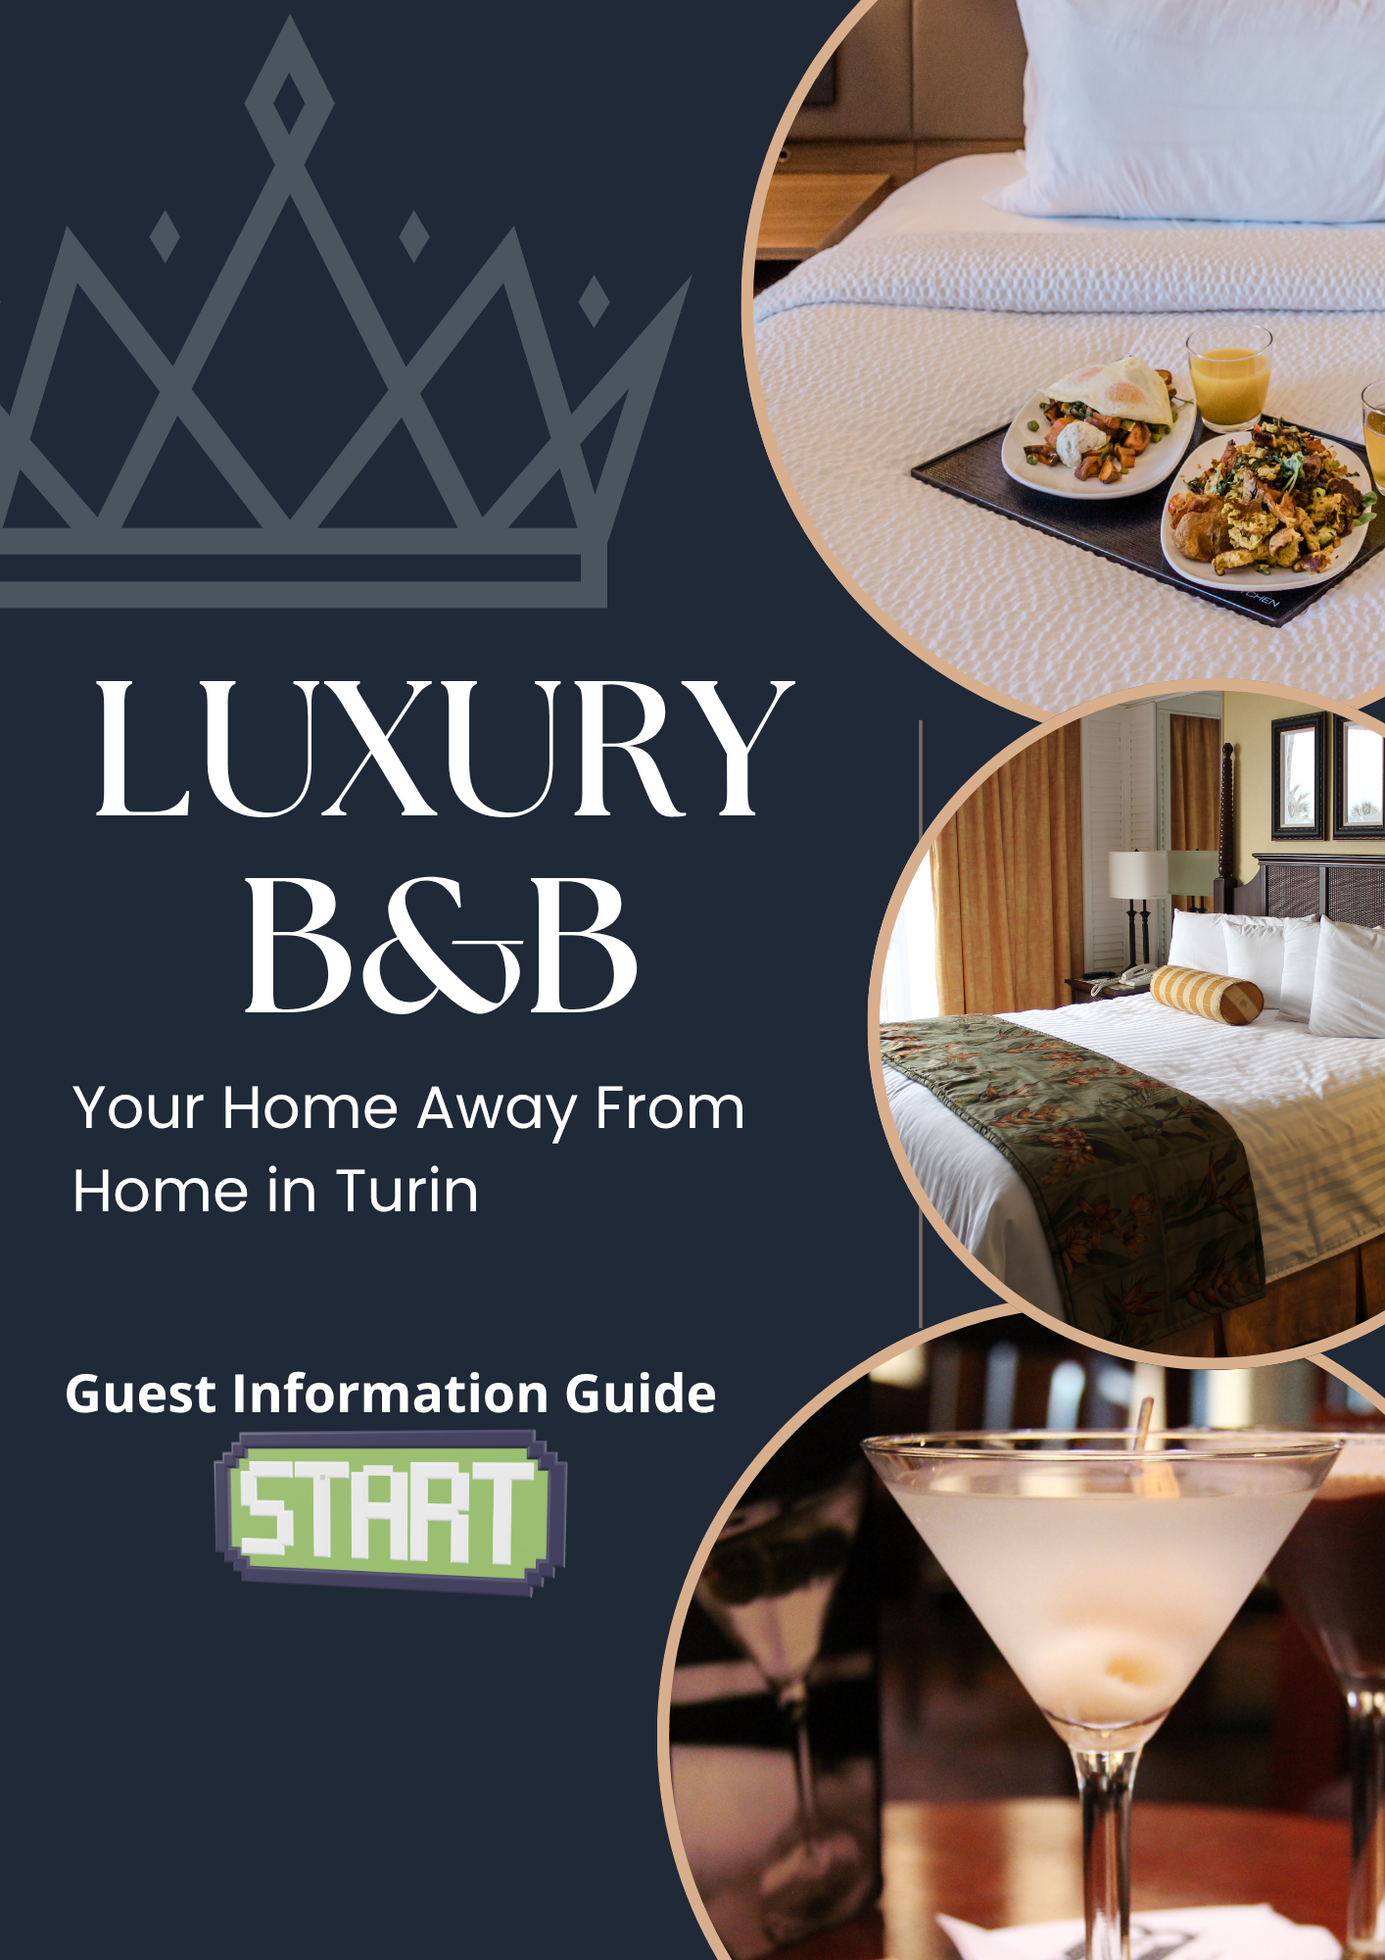
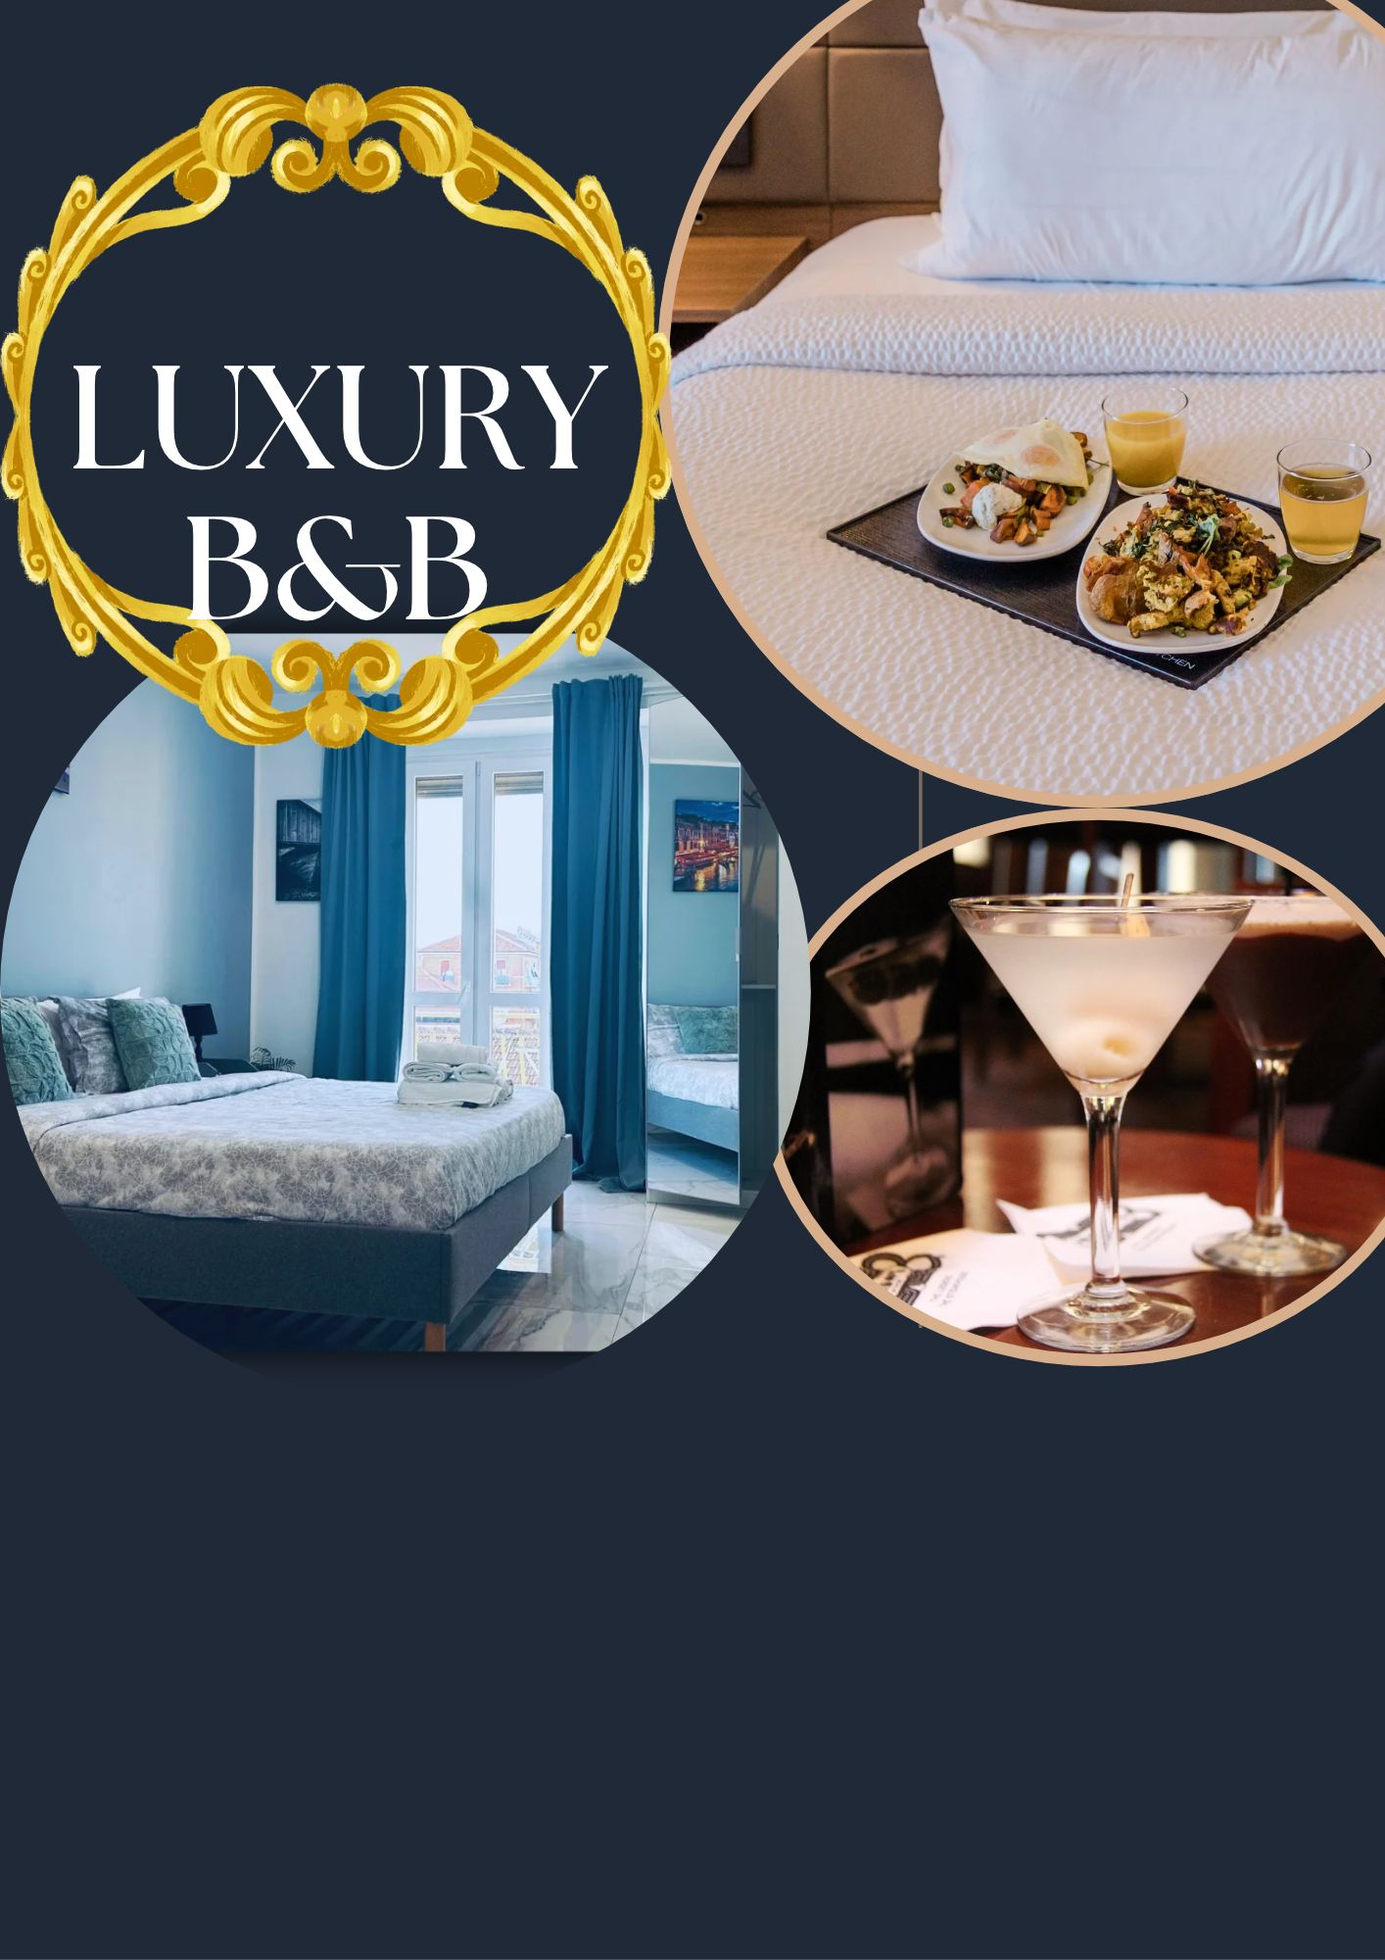
modified description

diff --git a/script.js b/script.js
@@ -91,14 +91,14 @@ const T = {
         checkin: {
             start_label: "Check-in dalle",
             end_label  : "alle",
-            checkInfos : " Self check-in disponibile",
+            checkInfos : "Sempre comunicare l'orario esatto di arrivo in struttura.è vietato il suonare il campanello dei vicini.",
             steps: ["Raggiungete Via Crevacuore 45, Torino.",
-                    "Appena arrivati all’indirizzo suonare al nome « Casa Leonel» il portone si aprirà",
+                    "Arrivati all’indirizzo suonare il campanello al nome « Casa Leonel». Il portone si aprirà",
                     "L’appartamento si trova al 4º piano porta n°10",
-                    "Individuate la cassetta delle chiavi (vedi foto).",
-                    "Inserite il codice che vi abbiamo inviato.",
-                    "Aprite lo sportello e prendete le chiavi.",
-                    "Richiudete la cassetta.",
+                    "Davanti l'ingresso Individuate la cassetta delle chiavi (vedi foto).",
+                    "Digitare il codice che vi abbiamo inviato.",
+                    "Aprite lo sportello e prendete le chiavi. Poi Richiudete la cassetta",
+                    "Aprite la porta d'ingresso dell'appartamento con le chiavi recuperati",
                 "Il vostro mazzo di chiavi composto da : Chiave per la porta blindata - chiave per il portone giù - chiave per la Camera "],
             note: "Il codice della cassetta vi verrà inviato su WhatsApp prima dell'arrivo.",
             photo: "Cassetta chiavi"
@@ -109,11 +109,15 @@ const T = {
                     "Spegnete luci, aria condizionata e TV.",
                     "Lavate o riponete le stoviglie usate.",
                     "Gettate i rifiuti nei contenitori della raccolta differenziata.",
-                    "Rimettete le chiavi nella cassetta e mescolate il codice.",
+                    "Rimettete le chiavi nella cassetta e chiudere usando il vostro codice.",
                     "Mandateci un messaggio su WhatsApp quando partite."]
         },
-        rules: ["🚭 Vietato fumare all'interno.", "🎉 Non sono ammesse feste o eventi.",
-                "🔇 Silenzio dalle 22:00 alle 8:00.", "👥 Possono soggiornare solo gli ospiti registrati.",
+        rules: ["🔇 Silenzio dalle 22:00 alle 8:00: I VICINI sono molto sensibili a piccoli rumori",
+                "🔇 Silenzio dalle 22:00 alle 8:00: Ridurre il volume di TV e musica.",
+                "🔇 Dalle 22:00, Evitare di spostare mobili e Letto senza adeguato controllo.",
+                "🚽 è consentito gettare nel WC esclusivamente la carta igienica fornita 🧻",
+                "🚭 Vietato fumare all'interno dell'appartamento.", "🎉 Non sono ammesse feste o eventi.",
+                 "👥 Possono soggiornare solo gli ospiti registrati.",
                 "♻ Rispettate la raccolta differenziata.", "💡 Spegnete luci e climatizzatore quando uscite."],
         dir: {
             airport: ["Aeroporto di Torino", "Collegamenti in bus e treno verso il centro. Calcolate il percorso aggiornato."],
@@ -169,10 +173,15 @@ const T = {
         checkin: {
             start_label: "Check-in from",
             end_label  : "to",
-            checkInfos : " ",
-            steps: ["Go to Via Crevacuore 45, Turin.", "Find the key safe (see photo).",
-                    "Enter the code we sent you.", "Open the key safe and take the keys.",
-                    "Close the key safe and scramble the code."],
+            checkInfos : "Always communicate your exact arrival time at the property. It is forbidden to ring the neighbors' doorbells.",
+            steps: ["Go to Via Crevacuore 45, Turin.",
+                    "Upon arrival, ring the doorbell labeled <Casa Leonel> The main door will open.",
+                    "The apartment is located on the 4th floor, door no. 10.",
+                    "Locate the key box near the entrance (see photo).",
+                    "Enter the code that we have sent you.",
+                    "Open the box and take the keys, then close the box again.",
+                    "Use the keys you have retrieved to open the apartment's entrance door.",
+                    "Your set of keys includes: a key for the security door, a key for the main building entrance, and a key for your room."],
             note: "The key safe code will be sent to you on WhatsApp before your arrival.",
             photo: "Key safe"
         },
@@ -180,10 +189,14 @@ const T = {
             time: "Check-out by",
             items: ["Close all windows and the balcony door.", "Switch off lights, air conditioning and TV.",
                     "Wash or put away used dishes.", "Dispose of rubbish in the recycling bins.",
-                    "Put the keys back in the key safe and scramble the code.",
+                    "Put the keys back in the box and lock it using your code.",
                     "Send us a WhatsApp message when you leave."]
         },
-        rules: ["🚭 No smoking inside.", "🎉 No parties or events.", "🔇 Quiet hours from 10:00 PM to 8:00 AM.",
+        rules: ["🔇 Quiet hours from 10:00 PM to 8:00 AM: The NEIGHBORS are very sensitive to even minor noises.",
+                "🔇 Quiet hours from 10:00 PM to 8:00 AM: Please keep the volume of TVs and music low.",
+                "🔇 From 10:00 PM onwards, please avoid moving furniture or beds.",
+                "🚽 Only the provided toilet paper may be flushed down the toilet. 🧻", 
+                "🎉 No parties or events.", "🚭 Smoking is prohibited inside the apartment.",
                 "👥 Only registered guests may stay.", "♻ Please separate your waste for recycling.",
                 "💡 Switch off lights and air conditioning when you go out."],
         dir: {
@@ -240,10 +253,15 @@ const T = {
         checkin: {
             start_label: "Arrivée à partir de",
             end_label  : "a",
-            checkInfos : " ",
-            steps: ["Rendez-vous Via Crevacuore 45, Turin.", "Trouvez la boîte à clés (voir photo).",
-                    "Saisissez le code que nous vous avons envoyé.", "Ouvrez la boîte et prenez les clés.",
-                    "Refermez la boîte et brouillez le code."],
+            checkInfos : "Veuillez toujours communiquer votre heure d'arrivée exacte à l'établissement. Il est interdit de sonner chez les voisins.",
+            steps: ["Rendez-vous au 45, Via Crevacuore, à Turin.",
+                    "Une fois sur place, sonnez à l'interphone au nom de « Casa Leonel ». La porte d'entrée s'ouvrira.",
+                    "L'appartement se situe au 4e étage, porte n° 10.",
+                    "Devant l'entrée, repérez la boîte à clés (voir photo).",
+                    "Saisissez le code que nous vous avons envoyé.",
+                    "Ouvrez le compartiment et récupérez les clés. Refermez ensuite la boîte.",
+                    "Ouvrez la porte de l'appartement à l'aide des clés récupérées.",
+                    "Votre trousseau de clés comprend : une clé pour la porte blindée, une clé pour la porte d'entrée de l'immeuble et une clé pour la chambre."],
             note: "Le code de la boîte à clés vous sera envoyé sur WhatsApp avant votre arrivée.",
             photo: "Boîte à clés"
         },
@@ -251,9 +269,14 @@ const T = {
             time: "Départ avant",
             items: ["Fermez toutes les fenêtres et la porte du balcon.", "Éteignez les lumières, la climatisation et la TV.",
                     "Lavez ou rangez la vaisselle utilisée.", "Jetez les déchets dans les bacs de tri sélectif.",
-                    "Remettez les clés dans la boîte et brouillez le code.", "Envoyez-nous un message WhatsApp à votre départ."]
+                    "Remettez les clés dans la boîte et fermez-la en utilisant votre code.", 
+                    "Envoyez-nous un message WhatsApp à votre départ."]
         },
-        rules: ["🚭 Interdiction de fumer à l'intérieur.", "🎉 Fêtes et événements interdits.", "🔇 Silence de 22h00 à 8h00.",
+        rules: ["🔇 Silence de 22h00 à 8h00 : les voisins sont très sensibles au moindre bruit.",
+                "🔇 Silence de 22h00 à 8h00 : veuillez baisser le volume de la télévision et de la musique.",
+               " 🔇 À partir de 22h00, évitez de déplacer les meubles ou le lit sans précaution.",
+                "🚽 Seul le papier toilette fourni doit être jeté dans les toilettes 🧻", 
+                "🎉 Fêtes et événements interdits.", "🚭 Il est interdit de fumer à l'intérieur de l'appartement.",
                 "👥 Seuls les voyageurs enregistrés peuvent séjourner.", "♻ Merci de respecter le tri sélectif.",
                 "💡 Éteignez lumières et climatisation en sortant."],
         dir: {
@@ -310,10 +333,15 @@ const T = {
         checkin: {
             start_label: "Check-in ab",
             end_label  : "bis",
-            checkInfos : " ",
-            steps: ["Gehen Sie zur Via Crevacuore 45, Turin.", "Suchen Sie den Schlüsselsafe (siehe Foto).",
-                    "Geben Sie den Code ein, den wir Ihnen geschickt haben.", "Öffnen Sie den Safe und nehmen Sie die Schlüssel.",
-                    "Schließen Sie den Safe und verstellen Sie den Code."],
+            checkInfos : "Bitte teilen Sie stets die genaue Ankunftszeit in der Unterkunft mit. Es ist untersagt, bei den Nachbarn zu klingeln.",
+            steps: ["Begeben Sie sich zur Via Crevacuore 45 in Turin.",
+                    "Klingeln Sie an der Adresse bei „Casa Leonel“. Die Eingangstür öffnet sich dann.",
+                    "Die Wohnung befindet sich im 4. Stock, Tür Nr. 10.",
+                    "Suchen Sie vor dem Eingang die Schlüsselbox (siehe Foto).",
+                    "Geben Sie den Code ein, den wir Ihnen zugesendet haben.",
+                    "Öffnen Sie die Klappe und entnehmen Sie die Schlüssel. Schließen Sie anschließend die Box wieder.",
+                    "Öffnen Sie die Wohnungstür mit den entnommenen Schlüsseln.",
+                    "Ihr Schlüsselbund besteht aus: einem Schlüssel für die Sicherheitstür, einem Schlüssel für die Hauseingangstür (unten) und einem Schlüssel für das Zimmer."],
             note: "Den Code für den Schlüsselsafe erhalten Sie vor Ihrer Ankunft per WhatsApp.",
             photo: "Schlüsselsafe"
         },
@@ -321,11 +349,15 @@ const T = {
             time: "Check-out bis",
             items: ["Schließen Sie alle Fenster und die Balkontür.", "Schalten Sie Licht, Klimaanlage und TV aus.",
                     "Spülen oder verräumen Sie benutztes Geschirr.", "Entsorgen Sie den Müll getrennt in den Recyclingbehältern.",
-                    "Legen Sie die Schlüssel zurück in den Safe und verstellen Sie den Code.",
+                    "Legen Sie die Schlüssel zurück in den Kasten und schließen Sie ihn mit Ihrem Code.",
                     "Schicken Sie uns bei der Abreise eine WhatsApp-Nachricht."]
         },
-        rules: ["🚭 Rauchen in der Wohnung ist verboten.", "🎉 Keine Partys oder Veranstaltungen.",
-                "🔇 Nachtruhe von 22:00 bis 8:00 Uhr.", "👥 Nur angemeldete Gäste dürfen übernachten.",
+        rules: ["🔇 Nachtruhe von 22:00 bis 8:00 Uhr: Die Nachbarn sind sehr empfindlich gegenüber Geräuschen.",
+                "🔇 Nachtruhe von 22:00 bis 8:00 Uhr: Bitte reduzieren Sie die Lautstärke von Fernseher und Musik.",
+                "🔇 Ab 22:00 Uhr: Bitte keine Möbel oder Betten verschieben (oder nur mit äußerster Vorsicht).",
+                "🚽 Es darf ausschließlich das bereitgestellte Toilettenpapier in die Toilette geworfen werden 🧻", 
+                "🎉 Keine Partys oder Veranstaltungen.",
+                "🚭 Rauchen ist in der Wohnung untersagt.", "👥 Nur angemeldete Gäste dürfen übernachten.",
                 "♻ Bitte trennen Sie den Müll.", "💡 Schalten Sie Licht und Klimaanlage beim Verlassen aus."],
         dir: {
             airport: ["Flughafen Turin", "Bus- und Zugverbindungen ins Stadtzentrum. Berechnen Sie die aktuelle Verbindung."],
@@ -381,10 +413,15 @@ const T = {
         checkin: {
             start_label: "Check-in a partir de las",
             end_label  : "hasta",
-            checkInfos : " ",
-            steps: ["Diríjase a Via Crevacuore 45, Turín.", "Localice la caja de las llaves (ver foto).",
-                    "Introduzca el código que le hemos enviado.", "Abra la caja y tome las llaves.",
-                    "Cierre la caja y desordene el código."],
+            checkInfos : "Comunica siempre tu hora exacta de llegada. Está prohibido tocar el timbre de los vecinos.",
+            steps: ["Dirígete a Via Crevacuore 45, Turín.",
+                    "Al llegar, toca el timbre de <Casa Leonel>. La puerta se abrirá.",
+                    "El apartamento está en la 4.ª planta, puerta n.º 10.",
+                    "Localiza la caja de llaves frente a la entrada (ver foto).",
+                    "Introduce el código que te enviamos.",
+                    "Abre la puerta y coge las llaves. Cierra la caja.",
+                    "Abre la puerta principal del apartamento con las llaves que has recuperado.",
+                    "Tu juego de llaves incluye: llave de la puerta de seguridad, llave de la puerta de abajo y llave del dormitorio."],
             note: "Le enviaremos el código de la caja por WhatsApp antes de su llegada.",
             photo: "Caja de llaves"
         },
@@ -392,9 +429,13 @@ const T = {
             time: "Check-out antes de las",
             items: ["Cierre todas las ventanas y la puerta del balcón.", "Apague luces, aire acondicionado y TV.",
                     "Lave o guarde la vajilla usada.", "Tire la basura en los contenedores de reciclaje.",
-                    "Deje las llaves en la caja y desordene el código.", "Envíenos un mensaje por WhatsApp al salir."]
+                    "Vuelve a guardar las llaves en la caja y ciérrala con tu código.", "Envíenos un mensaje por WhatsApp al salir."]
         },
-        rules: ["🚭 Prohibido fumar en el interior.", "🎉 No se permiten fiestas ni eventos.", "🔇 Silencio de 22:00 a 8:00.",
+        rules: ["🔇 Silencio de 22:00 a 8:00: Los vecinos son muy sensibles a los ruidos leves.",
+                "🔇 Silencio de 22:00 a 8:00: Baje el volumen de la televisión y la música.",
+                "🔇 A partir de las 22:00, evite mover los muebles y la cama sin la supervisión adecuada.",
+                "🚽 Solo se permite el papel higiénico proporcionado en el baño. 🧻", 
+                "🎉 No se permiten fiestas ni eventos.", "🚭 Está prohibido fumar dentro del apartamento.",
                 "👥 Solo pueden alojarse los huéspedes registrados.", "♻ Respete la separación de residuos.",
                 "💡 Apague luces y aire acondicionado al salir."],
         dir: {
@@ -451,18 +492,28 @@ const T = {
         checkin: {
              start_label: "入住时间：自",
             end_label  : "至",
-            checkInfos : " ",
-            steps: ["前往都灵 Via Crevacuore 45。", "找到钥匙密码盒（见照片）。", "输入我们发送给您的密码。",
-                    "打开密码盒并取出钥匙。", "关上密码盒并打乱密码。"],
+            checkInfos : "請務必告知確切的到達時間。禁止按鄰居的門鈴",
+            steps: ["前往都靈克雷瓦庫奧雷大街45號（Via Crevacuore 45, Turin）。",
+                    "到達地址後，請按“Casa Leonel”的門鈴。門會打開。",
+                    "公寓位於4樓，門牌號碼為10。",
+                    "找到入口前的鑰匙盒（見圖）。",
+                   " 輸入我們發送給您的密碼。",
+                    "打開門並取出鑰匙。然後關上鑰匙盒。",
+                    "用您取回的鑰匙打開公寓的前門。",
+                    "您的鑰匙包括：安全門鑰匙、樓下門鑰匙和臥室鑰匙。"],
             note: "我们会在您到达前通过 WhatsApp 发送密码盒密码。",
             photo: "钥匙密码盒"
         },
         checkout: {
             time: "退房时间：最晚",
             items: ["关闭所有窗户和阳台门。", "关闭灯光、空调和电视。", "清洗或收好用过的餐具。",
-                    "将垃圾分类投放到回收桶中。", "将钥匙放回密码盒并打乱密码。", "离开时请通过 WhatsApp 告知我们。"]
+                    "将垃圾分类投放到回收桶中。", "把鑰匙放回盒子裡，用你的密碼鎖上。", "离开时请通过 WhatsApp 告知我们。"]
         },
-        rules: ["🚭 室内禁止吸烟。", "🎉 禁止举办派对或活动。", "🔇 22:00 至 8:00 请保持安静。",
+        rules: ["🔇 晚上10點至早上8點請保持安靜：鄰居對細微噪音非常敏感。",
+                "🔇 晚上10點至早上8點請保持安靜：請調低電視和音樂的音量。",
+               " 🔇 晚上10點後，請勿在沒有成人監護的情況下移動家具和床鋪。",
+               " 🚽 衛生間僅允許使用提供的衛生紙。 🧻",
+                "🚭 公寓內禁止吸煙。", "🎉 禁止举办派对或活动。", "🔇 22:00 至 8:00 请保持安静。",
                 "👥 仅限登记的住客入住。", "♻ 请进行垃圾分类。", "💡 外出时请关闭灯光和空调。"],
         dir: {
             airport: ["都灵机场", "有巴士和火车前往市中心。请查看最新路线。"],
